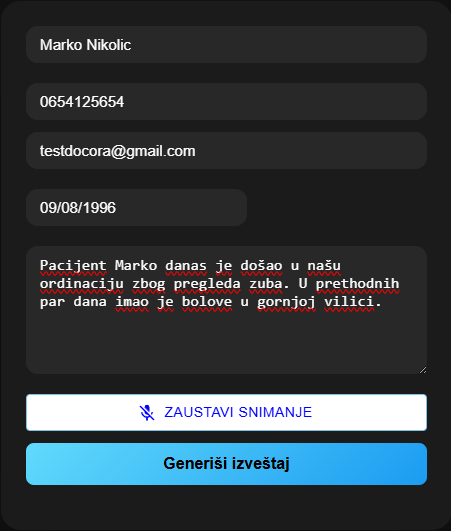
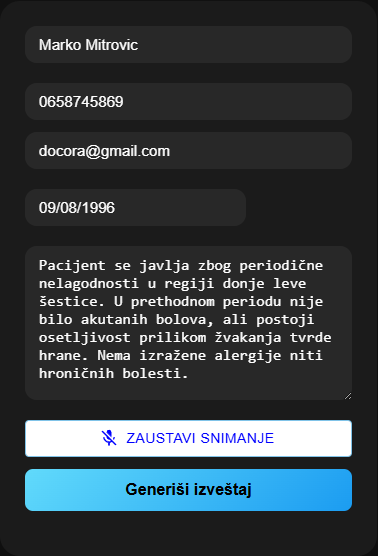
adding testiminials and change some css for pages

diff --git a/src/components/TestimonialPage/TestimonialComponent.jsx b/src/components/TestimonialPage/TestimonialComponent.jsx
@@ -1,0 +1,88 @@
+import React from "react";
+import Slider from "react-slick";
+import { FaQuoteLeft } from "react-icons/fa";
+import { HiOutlineUserCircle } from "react-icons/hi";
+import "./TestimonialComponent.css";
+import "slick-carousel/slick/slick.css";
+import "slick-carousel/slick/slick-theme.css";
+
+const testimonials = [
+  {
+    quote:
+      "Koristim Docoru za dnevne izveštaje sa terena. Mnogo lakše nego da pišem sve ručno nakon napornog dana.",
+    author: "Ana S., vođa projekta",
+  },
+  {
+    quote:
+      "Na gradilištu je uvek haotično – Docora mi pomaže da brzo zabeležim važne napomene i uputstva bez papira i olovke.",
+    author: "Milan D., građevinski inženjer",
+  },
+  {
+    quote:
+      "Kao serviser na terenu, nemam vremena da pišem izveštaje posle svake intervencije. Docora mi omogućava da ih snimim odmah i uštedim vreme.",
+    author: "Marko L., elektro-serviser",
+  },
+  {
+    quote:
+      "Uštedela mi je gomilu vremena pri pisanju izveštaja. Govorim – i gotovo.",
+    author: "Stomatolog, Aleksandar P.",
+  },
+  {
+    quote:
+      "Nisam verovao da ovako nešto može olakšati moj posao, ali Docora zaista štedi sate svake nedelje.",
+    author: "Ivan M., preduzetnik",
+  },
+  {
+    quote:
+      "Docora mi je značajno ubrzala rad. Mogu se fokusirati na pacijenta, umesto da mislim o kucanju i papirologiji.",
+    author: "Stomatolog, Marina T.",
+  },
+];
+
+
+const TestimonialsSection = () => {
+  const settings = {
+    dots: true,
+    infinite: true,
+    speed: 500,
+    slidesToShow: 3,
+    slidesToScroll: 1,
+    arrows: true,
+    responsive: [
+      {
+        breakpoint: 1024,
+        settings: {
+          slidesToShow: 2,
+        },
+      },
+      {
+        breakpoint: 768,
+        settings: {
+          slidesToShow: 1,
+        },
+      },
+    ],
+  };
+
+  return (
+    <section className="testimonials-section">
+      <h2 className="testimonials-title">Iskustva naših korisnika</h2>
+<Slider {...settings}>
+  {testimonials.map((item, index) => (
+    <div className="testimonial-slide" key={index}>
+      <div className="testimonial-card">
+        <FaQuoteLeft className="quote-icon" />
+        <p className="testimonial-text">"{item.quote}"</p>
+        <div className="testimonial-author">
+          <HiOutlineUserCircle className="user-icon" />
+          <span>{item.author}</span>
+        </div>
+      </div>
+    </div>
+  ))}
+</Slider>
+    </section>
+  );
+};
+
+export default TestimonialsSection;

diff --git a/src/components/TestimonialPage/TestimonialComponent.css b/src/components/TestimonialPage/TestimonialComponent.css
@@ -1,0 +1,81 @@
+.testimonials-section {
+  background-color: #0f0f0f;
+  color: #ffffff;
+  padding: 60px 50px;
+  text-align: center;
+}
+
+.testimonials-title {
+  font-size: 2.3rem;
+  margin-bottom: 40px;
+  font-weight: 800;
+  color: #ffffff;
+}
+
+.testimonial-card {
+  background-color: #1e1e1e;
+  border-radius: 14px;
+  padding: 24px 20px;
+  margin: 16px;
+  box-shadow: 0 4px 12px rgba(0, 0, 0, 0.3);
+  min-height: 250px;
+  display: flex;
+  flex-direction: column;
+  justify-content: space-between;
+  transition: transform 0.2s ease, box-shadow 0.2s ease;
+}
+
+.testimonial-card:hover {
+  transform: translateY(-4px);
+  box-shadow: 0 6px 20px rgba(97, 218, 251, 0.2);
+}
+
+.quote-icon {
+  font-size: 1.2rem;
+  color: #61dafb;
+  margin-bottom: 12px;
+}
+
+.testimonial-text {
+  font-size: 1rem;
+  color: #dddddd;
+  line-height: 1.6;
+  margin-bottom: 20px;
+  max-height: 110px;
+  overflow: hidden;
+  text-overflow: ellipsis;
+}
+
+.testimonial-author {
+  display: flex;
+  align-items: center;
+  justify-content: center;
+  font-weight: 600;
+  font-size: 0.95rem;
+  color: #bbbbbb;
+  margin-top: auto;
+}
+
+.user-icon {
+  font-size: 1.3rem;
+  margin-right: 6px;
+  color: #61dafb;
+}
+
+.slick-prev:before,
+.slick-next:before {
+  color: #61dafb;
+  font-size: 27px !important;
+}
+
+.slick-dots li button:before {
+  color: #61dafb;
+  font-size: 12px;
+}
+
+.testimonial-slide {
+  padding: 0 5px;
+  box-sizing: border-box;
+}
+
+

diff --git a/src/components/ReportDisplay/ReportDisplay.jsx b/src/components/ReportDisplay/ReportDisplay.jsx
@@ -176,24 +176,24 @@ const ReportDisplay = React.memo(
     }, [report, email, patientData, clearReport]);
 
     return (
-      <>
-        <div className="container-main">
+        <>
           {report && (
-            <div className="report-container">
-              <h2>Generisani izveštaj</h2>
-              <pre className="report-preview">{report}</pre>
-              <button
-                className="send-button"
-                onClick={generateAndSendPdf}
-                disabled={loading}
-              >
-                {loading ? "Šaljem..." : "Pošalji PDF na mejl"}
-              </button>
+            <div className="container-main">
+              <div className="report-container">
+                <h2>Generisani izveštaj</h2>
+                <pre className="report-preview">{report}</pre>
+                <button
+                  className="send-button"
+                  onClick={generateAndSendPdf}
+                  disabled={loading}
+                >
+                  {loading ? "Šaljem..." : "Pošalji PDF na mejl"}
+                </button>
+              </div>
             </div>
           )}
-        </div>
-      </>
-    );
+        </>
+        );
   }
 );
 

diff --git a/src/components/ReportComponent/ReportComponent.css b/src/components/ReportComponent/ReportComponent.css
@@ -6,7 +6,8 @@
   align-items: center;
   position: relative;
   overflow: hidden;
-  padding: 0 20px;
+  padding: 100px 20px 0; 
+  box-sizing: border-box;
 }
 
 .patient-form {
@@ -40,6 +41,7 @@
   color: #ffffff;
   font-size: 1rem;
   transition: background 0.3s ease;
+  text-decoration: none; /* Dodato: uklanja eventualno podvlačenje */
 }
 
 .patient-form input::placeholder,
@@ -79,7 +81,6 @@ textarea {
     opacity: 0;
     transform: translateY(20px);
   }
-
   to {
     opacity: 1;
     transform: translateY(0);
@@ -87,6 +88,11 @@ textarea {
 }
 
 @media (max-width: 768px) {
+
+  .form-wrapper{
+    min-height: 0;
+  }
+
   .patient-form {
     padding: 25px;
     margin-top: 80px;

diff --git a/src/components/ReportDisplay/ReportDisplay.css b/src/components/ReportDisplay/ReportDisplay.css
@@ -5,13 +5,15 @@ padding: 0px 20px 20px 20px;
 .report-container {
   background-color: #1a1a1d;
   border: 1px solid #2e2e33;
-  padding: 30px;
+  padding: 0px 20px 20px 20px;
   box-shadow: 0 10px 25px rgba(0, 0, 0, 0.3);
   color: #ffffff;
-  max-width: 800px;
+  max-width: 650px;
   margin-left: auto;
   margin-right: auto;
   animation: fadeIn 0.6s ease-in-out;
+  border-radius: 20px;
+  margin-top: 50px;
 }
 
 .report-container h2 {
@@ -69,5 +71,11 @@ padding: 0px 20px 20px 20px;
   to {
     opacity: 1;
     transform: translateY(0);
+  }
+}
+
+@media (max-width: 768px) {
+  .container-main{
+    margin-top: 100px;
   }
 }

diff --git a/src/components/FooterPage/FooterPage.jsx b/src/components/FooterPage/FooterPage.jsx
@@ -6,7 +6,7 @@ const Footer = () => {
     <footer className="footer">
       <div className="footer-container">
         <div className="footer-left">
-          <h2 className="footer-logo">Docora</h2>
+          <h6 className="footer-logo">Docora</h6>
           <p className="footer-description">
             Docora je platforma koja olakšava kreiranje izveštaja i beleški
             korišćenjem glasa. Bilo da ste profesionalac, preduzetnik ili član

diff --git a/src/components/LandingPage/LandingPage.jsx b/src/components/LandingPage/LandingPage.jsx
@@ -3,6 +3,7 @@ import "./LandingPage.css";
 import docora from "../../images/docora.png";
 import Logo from "../Logo/Logo";
 import FeaturesSection from "../FeaturePage/FeaturePage";
+import TestimonialsSection from "../TestimonialPage/TestimonialComponent";
 
 const LandingPage = () => {
   const navigate = useNavigate();
@@ -40,6 +41,7 @@ const LandingPage = () => {
   </div>
 </div>
 <FeaturesSection/>
+<TestimonialsSection/>
     </>
   );
 };

diff --git a/src/components/LandingPage/LandingPage.css b/src/components/LandingPage/LandingPage.css
@@ -20,7 +20,7 @@
   width: 100%;
   gap: 40px;
   flex-wrap: wrap;
-  margin-top: 100px;
+  margin-top: 70px;
 }
 
 .background-blob {
@@ -57,7 +57,7 @@
 
 .landing-image {
   max-width: 100%;
-  width: 420px;
+  width: 370px;
   border-radius: 16px;
   object-fit: cover;
   filter: drop-shadow(0 10px 20px rgba(0, 0, 0, 0.25));
@@ -130,6 +130,7 @@
 
   .landing-overlay {
     text-align: center;
+    margin-top: 60px;
   }
 
   .landing-title {

diff --git a/src/components/FooterPage/FooterPage.css b/src/components/FooterPage/FooterPage.css
@@ -1,8 +1,7 @@
 .footer {
-  background-color: #1a1a1a;
+  background-color: #121212;
   color: #ccc;
   padding: 40px 20px 20px;
-  margin-top: 80px;
   font-family: 'Arial', sans-serif;
 }
 
@@ -24,9 +23,9 @@
 
 .footer-logo {
   color: #61dafb;
-  font-size: 1.8rem;
+  font-size: 1.3rem;
   margin-bottom: 10px;
-  margin-top: 5px;
+  margin-top: 10px;
 }
 
 .footer-description {

diff --git a/src/components/FeaturePage/FeaturePage.css b/src/components/FeaturePage/FeaturePage.css
@@ -20,12 +20,10 @@
 }
 
 .feature-card {
-    background-color: rgba(255, 255, 255, 0.04);
     padding: 30px;
     border-radius: 16px;
     width: 260px;
     transition: transform 0.3s ease, box-shadow 0.3s ease;
-    box-shadow: 0 4px 20px rgba(0, 0, 0, 0.2);
 }
 
 .feature-card:hover {

diff --git a/src/components/ReportComponent/ReportComponent.jsx b/src/components/ReportComponent/ReportComponent.jsx
@@ -262,6 +262,7 @@ ${opis}
             <textarea
               placeholder="Opis ili napomene"
               value={opis}
+              spellCheck="false"
               onChange={(e) => setOpis(e.target.value)}
               required
               rows={6}
